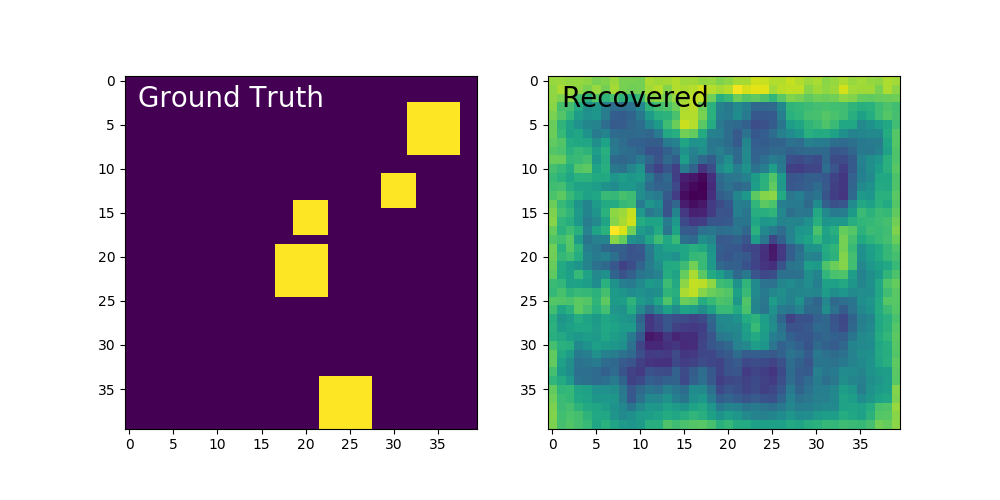
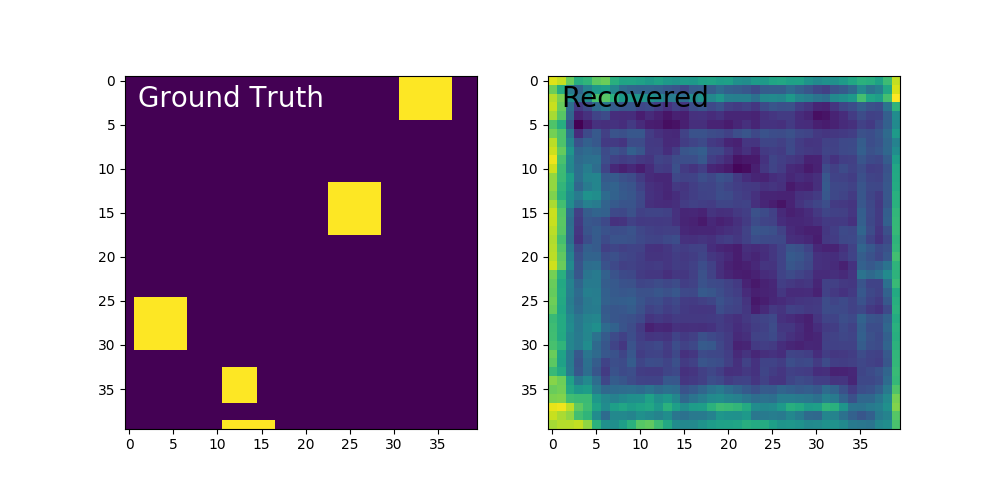
test 5 epoch run

diff --git a/fc_autoencoder/convlstm_autoencoder.py b/fc_autoencoder/convlstm_autoencoder.py
@@ -31,6 +31,7 @@ import numpy as np
 # (n_frames, width, height, channels) and returns a movie
 # of identical shape.
 
+EPOCH = 50
 sequenceLength = 15
 
 def MyCNN(inputs):
@@ -169,7 +170,7 @@ noisy_movies, shifted_movies = generate_movies(n_samples=1200)
 # seq.fit(noisy_movies[:1000], shifted_movies[:1000], 
 autoencoder.fit(shifted_movies[:1100], shifted_movies[:1100], 
         batch_size=10,
-        epochs=5, 
+        epochs=EPOCH, 
         validation_split=0.05,
         callbacks=[TensorBoard(log_dir='/tmp/conv_lstm/t1')])
 
@@ -221,7 +222,7 @@ STR_SUFFIX = "_animate.png"
 
 for i in range(15):
     # filenames.append(STR_PATH+STR_FILE+str(i)+STR_SUFFIX)
-    filename = STR_PATH+STR_FILE+ '%05i'%i +STR_SUFFIX
+    filename = STR_PATH+STR_FILE+ '%05i'%(i+1) +STR_SUFFIX
     # font = ImageFont.truetype("/usr/share/fonts/dejavu/DejaVuSans.ttf", 25)
     # for filename in filenames:
     im = imageio.imread(filename)
@@ -229,6 +230,6 @@ for i in range(15):
     # cv2.putText(img=im, text=str(i), org=(40,80),fontFace=2, fontScale=1, color=(255,0,0), thickness=2)
     images.append(im)
 
-imageio.mimsave('./result.gif', images)
+imageio.mimsave('./result'+'_'+str(EPOCH)+'.gif', images)
 
 # os.system("ffmpeg -f image2 -r 1 -i predict/%05d_animate.png -vcodec mpeg4 -y result.mp4")
